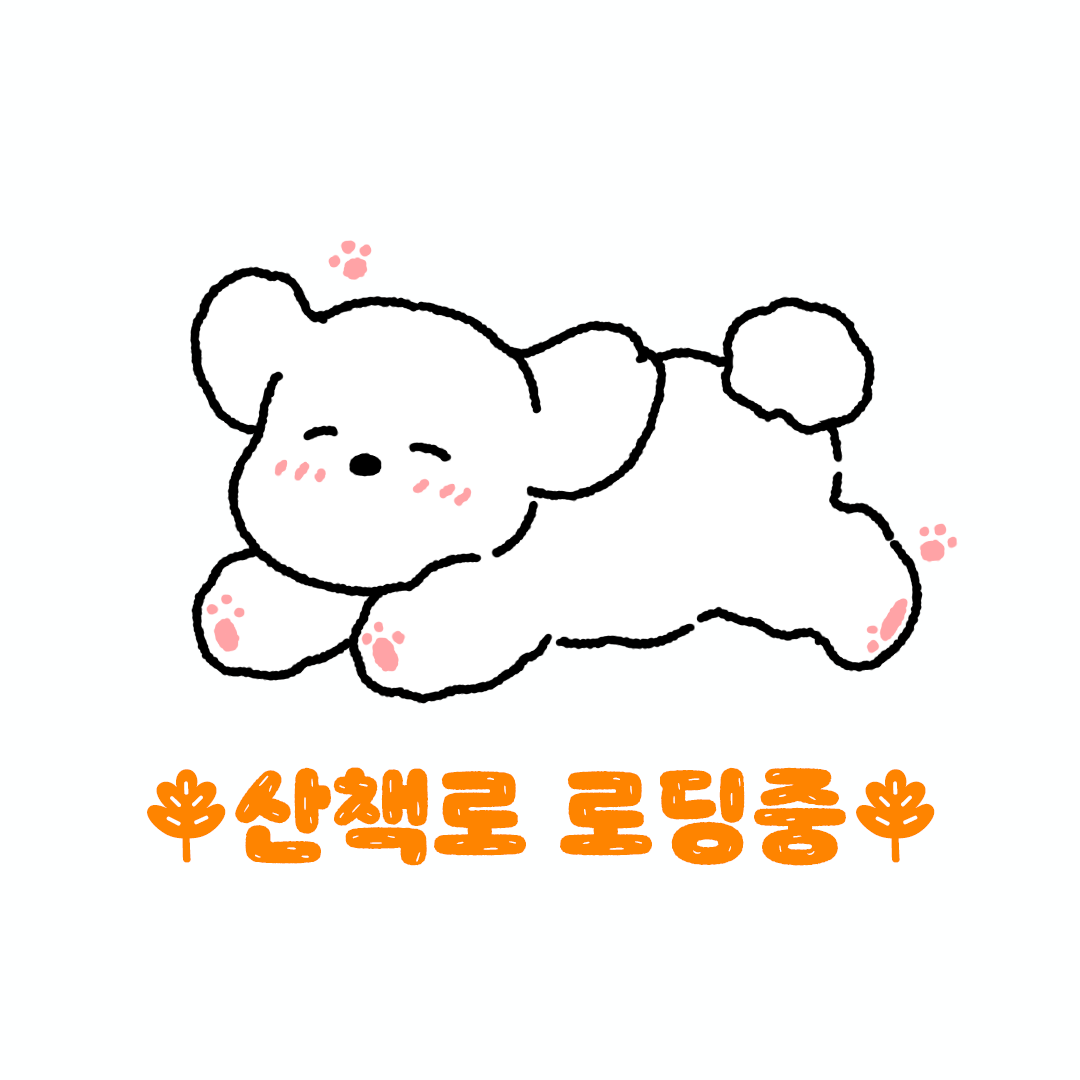
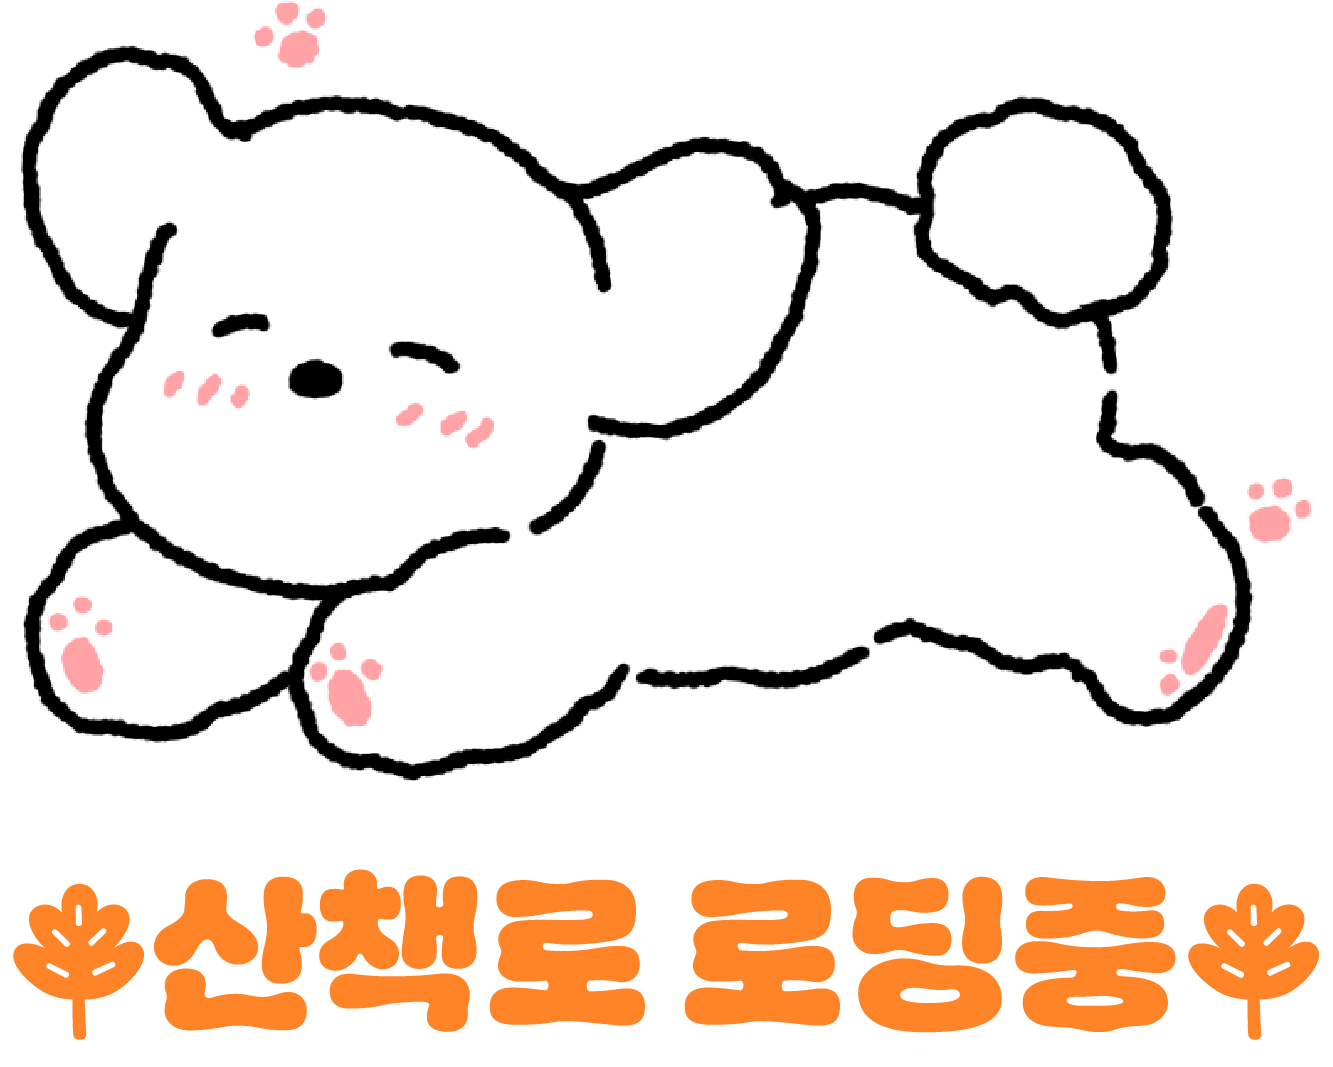
add: 메인페이지 추가

Changed region(s): [[0.0, 0.0928, 1.0, 0.9897], [0.0, 0.0309, 0.3972, 0.2784], [0.1833, 0.0, 0.2444, 0.0619]]

diff --git a/src/pages/Home.jsx b/src/pages/Home.jsx
@@ -1,0 +1,25 @@
+import { Link } from "react-router-dom";
+import { motion } from "framer-motion";
+import home from "../assets/home.png";
+
+const Home = () => {
+  return (
+    <motion.div
+      initial={{ opacity: 0 }}
+      animate={{ opacity: 1 }}
+      exit={{ opacity: 0 }}
+      transition={{ duration: 0.5 }}
+      className="w-full min-h-screen flex justify-center items-center flex-col text-center"
+    >
+      <div>
+        <img src={home} alt="home.png" className="w-96 object-contain m-auto" />
+      </div>
+      <p className="my-10">내가 그려나가는 특별한 산책로</p>
+      <Link to="/main" className="btn leading-[60px] hover:bg-orange-500">
+        몽글로드
+      </Link>
+    </motion.div>
+  );
+};
+
+export default Home;

diff --git a/src/shared/Router.jsx b/src/shared/Router.jsx
@@ -5,12 +5,14 @@ import Login from "../pages/Login";
 import Signup from "../pages/Signup";
 import Search from "../pages/Search";
 import ProtectedRoute from "../components/ProtectedRoute";
+import Home from "../pages/Home";
 
 const Router = () => {
   return (
     <BrowserRouter>
       <Routes>
-        <Route path="/" element={<MainPage />} />
+        <Route path="/" element={<Home />} />
+        <Route path="/main" element={<MainPage />} />
         <Route path="/walkpath" element={<ProtectedRoute element={WalkPathPage} />} />
         <Route path="/login" element={<Login />} />
         <Route path="/signup" element={<Signup />} />

diff --git a/src/components/WalkPath.jsx b/src/components/WalkPath.jsx
@@ -33,7 +33,16 @@ const WalkPath = () => {
 
   if (!isLocationLoaded) {
     return (
-      <div style={{ display: "flex", justifyContent: "center", alignItems: "center", width: "40%", height: "100vh" }}>
+      <div
+        style={{
+          display: "flex",
+          justifyContent: "end",
+          alignItems: "center",
+          width: "35%",
+          height: "100vh",
+          marginLeft: "15%"
+        }}
+      >
         <img src={loadingImage} alt="현재 위치를 불러오는 중..." />
       </div>
     );
